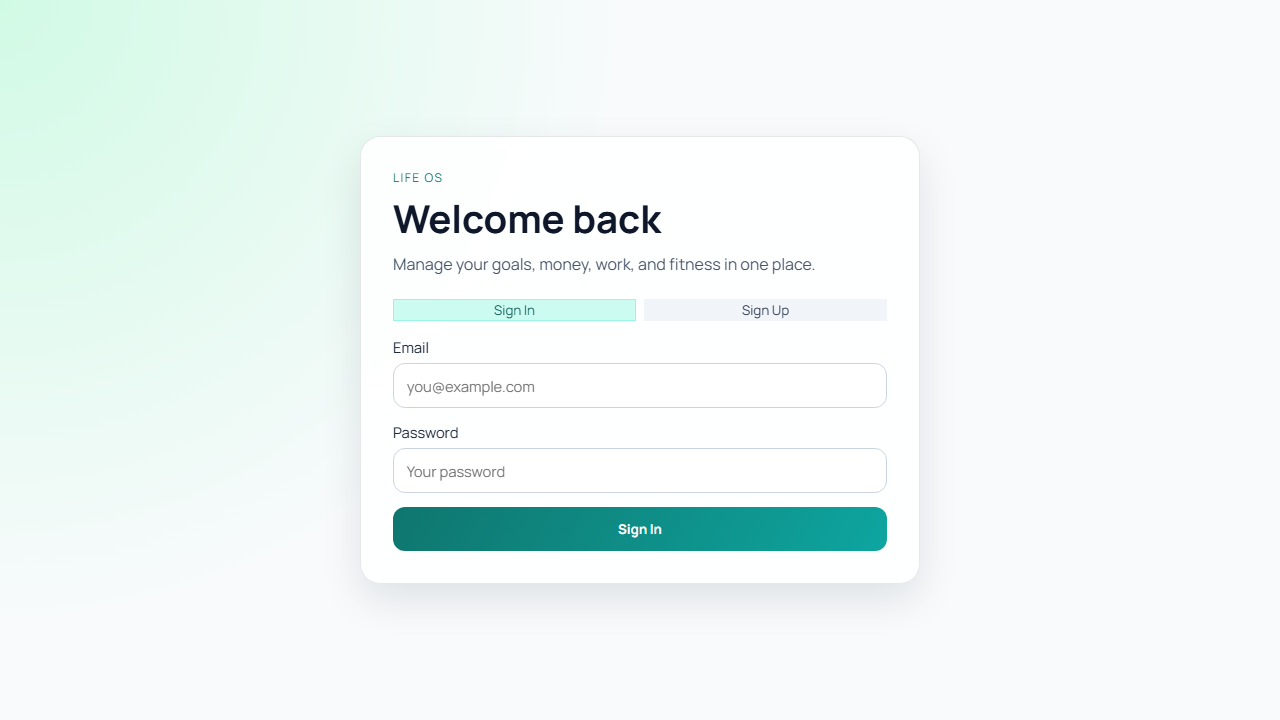
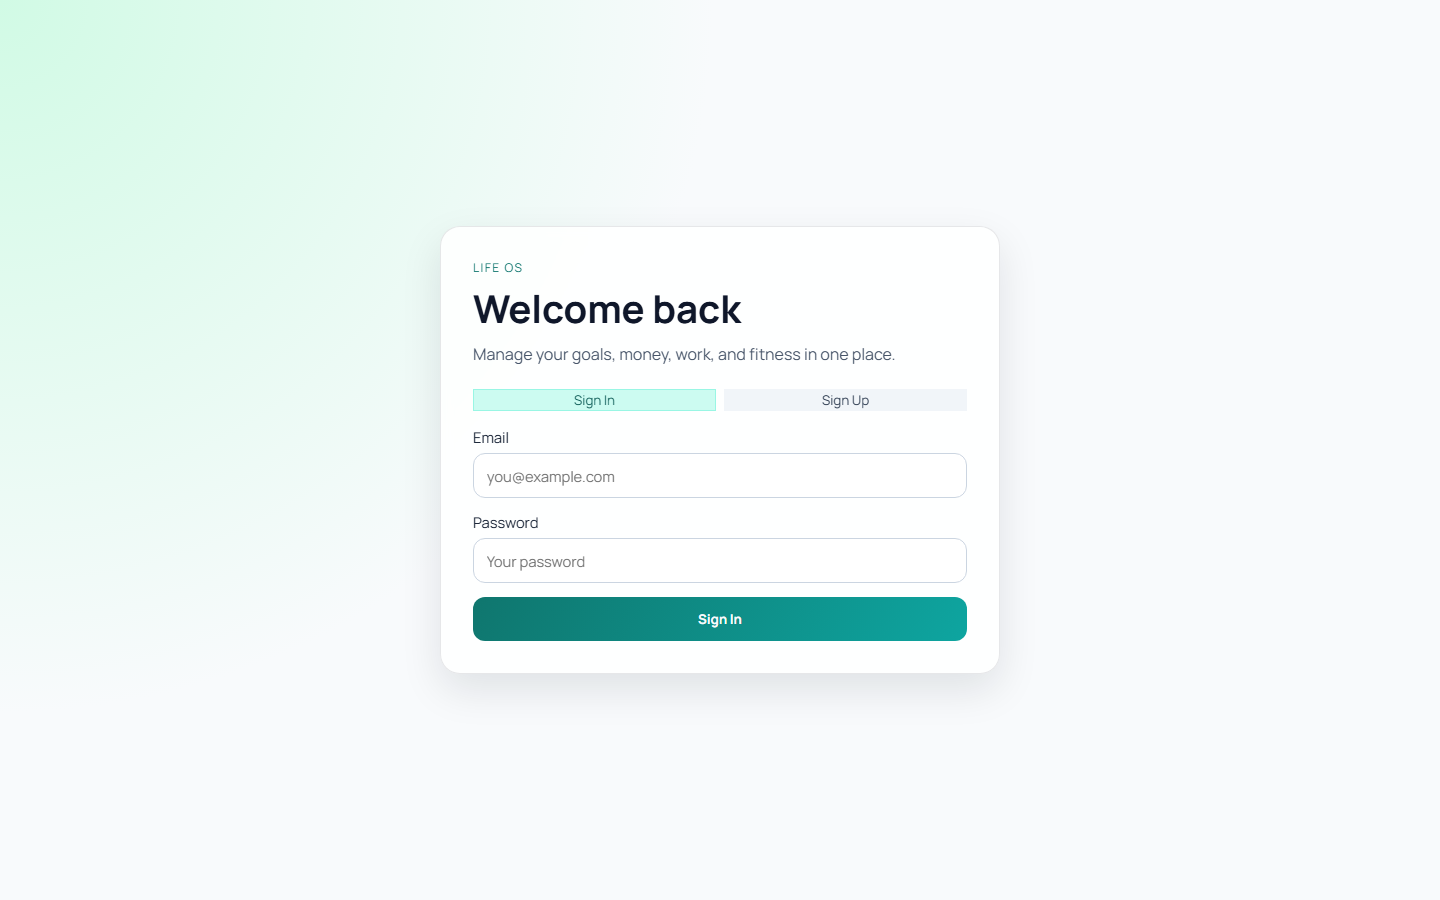
Refresh README and add new app preview screenshots

Changed region(s): [[0.2812, 0.275, 0.7188, 0.7639], [0.5625, 0.4278, 0.625, 0.4583]]

diff --git a/README.md b/README.md
@@ -1,105 +1,115 @@
 # Life OS
 
-Life OS is a full-stack productivity platform built to run your daily execution in one place. It combines personal operations (tasks, goals, fitness, finance) with lightweight CRM (clients, contacts, deals) and wraps everything in analytics + gamification so progress is measurable, visible, and motivating.
+Life OS is a full-stack productivity and personal operations platform that helps you manage work, health, money, and client pipeline in one app.
 
-At a high level, the app is a React single-page application powered by Supabase for authentication, storage, and business data. Every module is connected: for example, moving a deal to `won` can automatically generate income in the finance tracker through database triggers.
+The goal is simple: convert daily actions into measurable progress using live dashboards, analytics, and gamification.
 
-## Screenshots
+## App Preview
 
-### Desktop View
+### Desktop
 
-![Life OS Desktop](./life-os/docs/screenshots/desktop-auth.png)
+![Desktop Auth](./life-os/docs/screenshots/desktop-auth.png)
+![Desktop Wide Auth](./life-os/docs/screenshots/desktop-auth-wide.png)
 
-### Mobile View
+### Mobile
 
-![Life OS Mobile](./life-os/docs/screenshots/mobile-auth.png)
+![Mobile Auth](./life-os/docs/screenshots/mobile-auth.png)
+![Mobile Compact Auth](./life-os/docs/screenshots/mobile-auth-compact.png)
 
-## What The App Includes
+## What Life OS Does
 
-### Command Center Dashboard
+- Centralizes daily execution across tasks, goals, fitness, finance, and CRM
+- Provides a Command Center dashboard with live operational widgets
+- Tracks productivity through focus sessions, completion rates, and streak metrics
+- Rewards consistency with XP, levels, and level-up milestones
 
-- Live widgets for today's agenda, daily training, and 7-day spending
-- User progression indicators (XP, level, streak)
-- Quick links into every operational module
+## Main Product Modules
 
-### Tasks System
+### 1) Command Center
 
-- Kanban-style flow (`todo`, `doing`, `done`)
-- Priority and due-date management with rich filtering
-- XP rewards when tasks are completed (priority-weighted)
+- Today's agenda (todo tasks due today)
+- Daily training snapshot (today's workout or action prompt)
+- 7-day finance snapshot
+- Focus metrics (today's deep-work minutes and blocks)
 
-### Goals System
+### 2) Task Management + Focus Engine
 
-- Goal creation by horizon and target date
-- Milestone tracking with ordering + completion toggles
-- Circular and linear progress indicators derived from milestone completion
+- Task lifecycle: `todo`, `doing`, `done`
+- Priority and due-date planning
+- Weekly task analytics:
+  - created vs completed trend
+  - completion-rate trend
+  - best-performing week insight
+- Focus system:
+  - Pomodoro mode and manual mode
+  - start/pause/resume/complete/cancel
+  - per-task focus accumulation
+  - session history page with filters and summaries
+- Browser notifications + sound cues for timer transitions
 
-### Fitness System
+### 3) Goals
 
-- Workout sessions with exercise library and set logging
-- Per-set fields: reps, weight, RPE, warmup
-- Progression analytics chart for key exercise weight trends over time
+- Goals with milestone breakdown
+- Milestone ordering and completion tracking
+- Dynamic progress indicators (linear + circular)
 
-### Finance System
+### 4) Fitness
 
-- Accounts, categories, and transaction ledger
-- Filtered transaction views (type/account/month)
-- Monthly income vs expense chart + net-worth style ticker
+- Workout logging with exercise library
+- Set tracking (reps, weight, RPE, warmup)
+- Progression analytics (weight trend over time)
 
-### CRM (Clients + Deals)
+### 5) Finance
 
-- Client directory and client detail views
-- Client fields include name, phone, city, industry, status, notes
-- Contacts and deal notes linked to each client
-- Deals pipeline with drag-and-drop Kanban stages
-- Mobile quick-add modals for lead/deal entry
-- Won-deal revenue auto-synced into finance transactions
+- Accounts, categories, transactions
+- Monthly income vs expense analytics
+- Net-worth style summary ticker
 
-### Gamification Layer
+### 6) CRM (Clients + Deals)
 
-- XP total and level tracking per user
-- Daily streak calculation from completed activity (tasks/workouts/transactions)
-- Global level-up modal when XP crosses threshold
+- Client directory + detail pages
+- Client fields include phone and city
+- Deal Kanban pipeline (`lead`, `contacted`, `proposal`, `won`, `lost`)
+- Mobile quick-add for leads and deals
+- Won deal amounts auto-synced into finance transactions
 
-## Visualization Coverage
+### 7) Gamification
 
-- Fitness progression: line chart of weight progression for top exercises
-- Finance analytics: bar chart for monthly income vs expenses
-- Goal analytics: dynamic circular completion indicators
-- Dashboard snapshots: live operational widgets (agenda/training/spending)
-
-## Product Behavior
-
-- New users are routed through profile onboarding before app access
-- All key tables use row-level security (RLS) for per-user data isolation
-- Deal stage changes can trigger finance side effects (won deal -> income transaction)
-- Dashboard and analytics values are computed from live Supabase data
+- XP from task completion and completed focus blocks
+- Level thresholds + global level-up modal
+- Daily streak calculation from meaningful activity
 
 ## Tech Stack
 
-- Frontend runtime: React 19 + React DOM
+- Frontend: React 19, React DOM
 - Routing: React Router 7
-- Build tooling: Vite 7 + ESLint 9
-- Backend platform: Supabase
-  - Auth for session management
-  - Postgres for application data
-  - RLS policies for secure multi-user access
-- UI interactions: dnd-kit (drag/drop Kanban)
+- Build Tooling: Vite 7, ESLint 9
+- Backend: Supabase
+  - Auth
+  - Postgres
+  - Row Level Security (RLS)
+- Drag-and-drop: dnd-kit
 - Data visualization: Recharts
-- Validation/forms libs present: zod, react-hook-form
-- Styling approach: custom CSS with responsive breakpoints and module-specific layouts
+- Validation/forms libs: zod, react-hook-form
+- Styling: custom responsive CSS
+
+## Architecture Notes
+
+- Single-page React app in `life-os/`
+- SQL-first backend evolution in `supabase/` migrations
+- Security enforced at DB level with RLS policies
+- Feature data connected across modules (for example, won deals -> finance income)
 
 ## Repository Structure
 
-- `life-os/` - React application source
-  - `src/pages/` module pages (Tasks, Goals, Fitness, Finance, Clients, Deals)
-  - `src/context/` auth/session context
-  - `src/lib/` Supabase and gamification helpers
-- `supabase/` - SQL migration scripts and schema reference
-- `README.md` - root documentation
-- `vercel.json` - SPA deploy rewrite/config
+- `life-os/` - Vite React application
+  - `src/pages/` - product modules and screens
+  - `src/context/` - auth/session provider
+  - `src/lib/` - shared utilities (Supabase, gamification, notifications)
+- `supabase/` - schema and migration scripts
+- `vercel.json` - deployment/rewrite config
 
-## Local Setup
+## Local Development
 
 1. Install dependencies:
 
@@ -107,28 +117,28 @@ At a high level, the app is a React single-page application powered by Supabase 
 npm install --prefix life-os
 ```
 
-2. Configure env variables in `life-os/.env`:
+2. Add env vars in `life-os/.env`:
 
 ```env
 VITE_SUPABASE_URL=...
 VITE_SUPABASE_PUBLISHABLE_KEY=...
 ```
 
-3. Start development server:
+3. Run locally:
 
 ```bash
 npm run dev --prefix life-os
 ```
 
-4. Build for production:
+4. Production build:
 
 ```bash
 npm run build --prefix life-os
 ```
 
-## Supabase SQL Migration Order
+## Supabase Migration Order
 
-Run these scripts in order from the root `supabase/` folder:
+Run scripts from `supabase/` in sequence:
 
 1. `001_auth_profile_setup.sql`
 2. `002_tasks_rls.sql`
@@ -143,12 +153,14 @@ Run these scripts in order from the root `supabase/` folder:
 11. `011_deals_won_to_finance.sql`
 12. `012_clients_phone_city.sql`
 13. `013_deals_won_sync_fix.sql`
+14. `014_task_focus.sql`
+15. `015_task_focus_pause_status.sql`
 
 ## Deployment
 
-The project is configured for Vercel from repo root (`vercel.json`) with SPA rewrite support.
+Configured for Vercel at repo root with SPA rewrites.
 
-Required env vars in Vercel:
+Required environment variables:
 
 - `VITE_SUPABASE_URL`
 - `VITE_SUPABASE_PUBLISHABLE_KEY`
